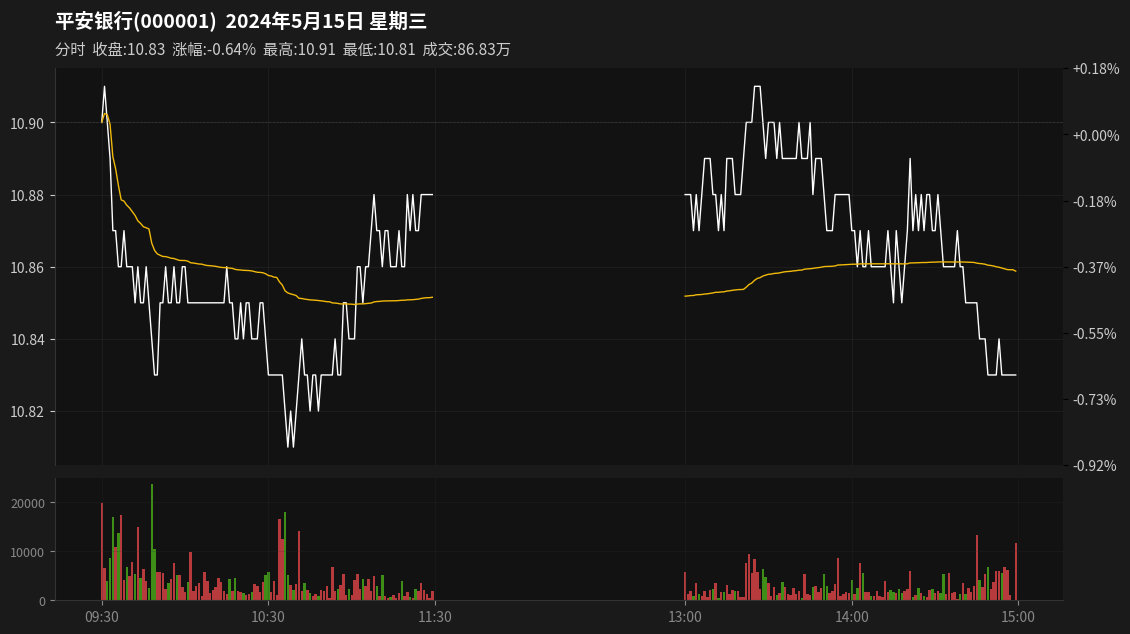
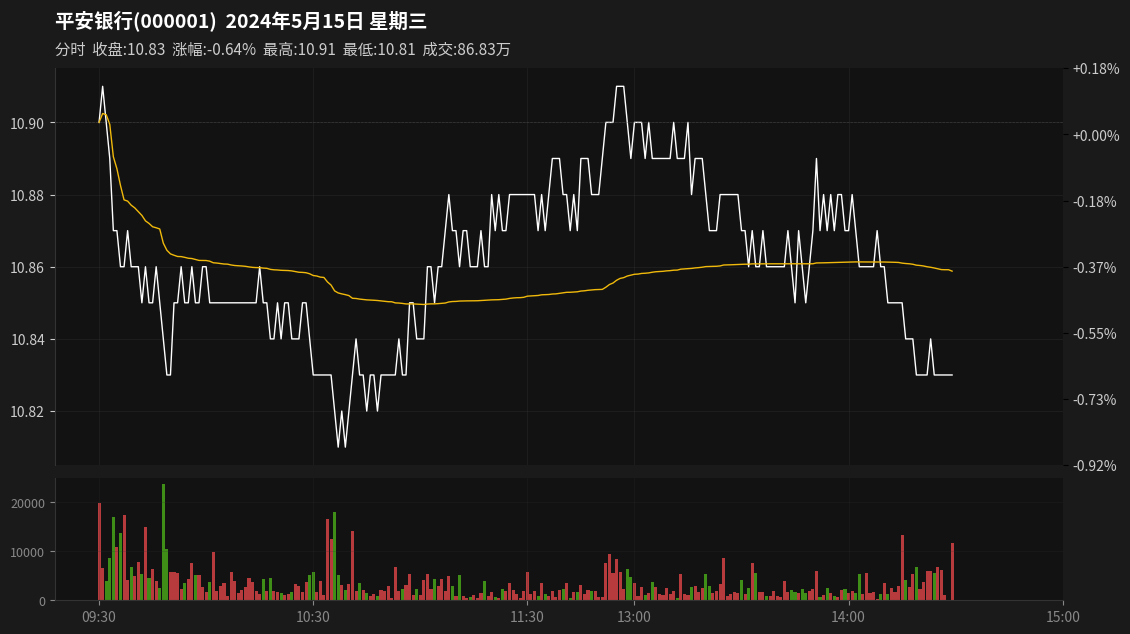
feat: compress lunch break gap in intraday charts
- Remove 1.5-hour blank space between morning and afternoon sessions
- Map afternoon times (13:00-15:00) to continuous timeline (11:30-13:30)
- Update x-axis labels to show original trading hours
- Apply to both 1-day and multi-day charts
- Matches mainstream trading software display style

diff --git a/src/fenshitu/chart_1day.py b/src/fenshitu/chart_1day.py
@@ -69,13 +69,16 @@ def generate_1day_chart(
     morning_mask = df["time"].dt.strftime("%H:%M") <= "11:30"
     afternoon_mask = df["time"].dt.strftime("%H:%M") >= "13:00"
     
-    morning_df = df[morning_mask]
-    afternoon_df = df[afternoon_mask]
+    morning_df = df[morning_mask].copy()
+    afternoon_df = df[afternoon_mask].copy()
+    
+    afternoon_df["display_time"] = afternoon_df["time"] - pd.Timedelta(hours=1, minutes=30)
+    morning_df["display_time"] = morning_df["time"]
+    
+    display_times = pd.concat([morning_df["display_time"], afternoon_df["display_time"]])
 
-    ax_price.plot(morning_df["time"], morning_df["close"], color=COLOR_PRICE_LINE, linewidth=1)
-    ax_price.plot(afternoon_df["time"], afternoon_df["close"], color=COLOR_PRICE_LINE, linewidth=1)
-    ax_price.plot(morning_df["time"], morning_df["avg_price"], color=COLOR_AVG_LINE, linewidth=1)
-    ax_price.plot(afternoon_df["time"], afternoon_df["avg_price"], color=COLOR_AVG_LINE, linewidth=1)
+    ax_price.plot(display_times, pd.concat([morning_df["close"], afternoon_df["close"]]), color=COLOR_PRICE_LINE, linewidth=1)
+    ax_price.plot(display_times, pd.concat([morning_df["avg_price"], afternoon_df["avg_price"]]), color=COLOR_AVG_LINE, linewidth=1)
     ax_price.axhline(y=prev_close, color=COLOR_ZERO_LINE, linestyle="--", linewidth=0.5, alpha=0.5)
 
     ax_price.grid(True, color=COLOR_GRID, linestyle="-", linewidth=0.5, alpha=0.5)
@@ -100,14 +103,14 @@ def generate_1day_chart(
     sec_axis.spines["bottom"].set_visible(False)
     sec_axis.spines["left"].set_visible(False)
 
-    morning_vol = morning_df[["time", "open", "close", "volume"]]
-    afternoon_vol = afternoon_df[["time", "open", "close", "volume"]]
+    morning_vol = morning_df[["display_time", "open", "close", "volume"]]
+    afternoon_vol = afternoon_df[["display_time", "open", "close", "volume"]]
     
     morning_colors = [COLOR_UP if c >= o else COLOR_DOWN for o, c in zip(morning_vol["open"], morning_vol["close"])]
     afternoon_colors = [COLOR_UP if c >= o else COLOR_DOWN for o, c in zip(afternoon_vol["open"], afternoon_vol["close"])]
     
-    ax_vol.bar(morning_vol["time"], morning_vol["volume"], color=morning_colors, alpha=0.7, width=0.0006)
-    ax_vol.bar(afternoon_vol["time"], afternoon_vol["volume"], color=afternoon_colors, alpha=0.7, width=0.0006)
+    ax_vol.bar(morning_vol["display_time"], morning_vol["volume"], color=morning_colors, alpha=0.7, width=0.0006)
+    ax_vol.bar(afternoon_vol["display_time"], afternoon_vol["volume"], color=afternoon_colors, alpha=0.7, width=0.0006)
     ax_vol.grid(True, color=COLOR_GRID, linestyle="-", linewidth=0.5, alpha=0.3)
     ax_vol.tick_params(axis="y", colors=COLOR_TEXT_DIM, labelsize=FONT_SIZE_AXIS - 1)
     ax_vol.spines["top"].set_visible(False)
@@ -123,9 +126,9 @@ def generate_1day_chart(
         datetime.datetime.strptime(f"{date} 09:30", "%Y%m%d %H:%M"),
         datetime.datetime.strptime(f"{date} 10:30", "%Y%m%d %H:%M"),
         datetime.datetime.strptime(f"{date} 11:30", "%Y%m%d %H:%M"),
-        datetime.datetime.strptime(f"{date} 13:00", "%Y%m%d %H:%M"),
-        datetime.datetime.strptime(f"{date} 14:00", "%Y%m%d %H:%M"),
-        datetime.datetime.strptime(f"{date} 15:00", "%Y%m%d %H:%M"),
+        datetime.datetime.strptime(f"{date} 11:30", "%Y%m%d %H:%M") + pd.Timedelta(minutes=30),
+        datetime.datetime.strptime(f"{date} 11:30", "%Y%m%d %H:%M") + pd.Timedelta(minutes=90),
+        datetime.datetime.strptime(f"{date} 11:30", "%Y%m%d %H:%M") + pd.Timedelta(minutes=150),
     ]
     ax_vol.set_xticks(time_ticks)
     ax_vol.set_xticklabels(["09:30", "10:30", "11:30", "13:00", "14:00", "15:00"])

diff --git a/src/fenshitu/chart_7day.py b/src/fenshitu/chart_7day.py
@@ -74,15 +74,18 @@ def generate_7day_chart(
         morning_mask = df["time"].dt.strftime("%H:%M") <= "11:30"
         afternoon_mask = df["time"].dt.strftime("%H:%M") >= "13:00"
         
-        morning_df = df[morning_mask]
-        afternoon_df = df[afternoon_mask]
+        morning_df = df[morning_mask].copy()
+        afternoon_df = df[afternoon_mask].copy()
+        
+        afternoon_df["display_time"] = afternoon_df["time"] - pd.Timedelta(hours=1, minutes=30)
+        morning_df["display_time"] = morning_df["time"]
+        
+        display_times = pd.concat([morning_df["display_time"], afternoon_df["display_time"]])
         
         prev_close = df["open"].iloc[0]
 
-        ax_price.plot(morning_df["time"], morning_df["close"], color=COLOR_PRICE_LINE, linewidth=0.8)
-        ax_price.plot(afternoon_df["time"], afternoon_df["close"], color=COLOR_PRICE_LINE, linewidth=0.8)
-        ax_price.plot(morning_df["time"], morning_df["avg_price"], color=COLOR_AVG_LINE, linewidth=0.8)
-        ax_price.plot(afternoon_df["time"], afternoon_df["avg_price"], color=COLOR_AVG_LINE, linewidth=0.8)
+        ax_price.plot(display_times, pd.concat([morning_df["close"], afternoon_df["close"]]), color=COLOR_PRICE_LINE, linewidth=0.8)
+        ax_price.plot(display_times, pd.concat([morning_df["avg_price"], afternoon_df["avg_price"]]), color=COLOR_AVG_LINE, linewidth=0.8)
         ax_price.axhline(y=prev_close, color=COLOR_ZERO_LINE, linestyle="--", linewidth=0.3, alpha=0.4)
 
         ax_price.set_ylim(global_price_min - price_padding, global_price_max + price_padding)
@@ -112,14 +115,14 @@ def generate_7day_chart(
         ax_price.text(0.5, 0.95, f"{date_obj.month}/{date_obj.day}", transform=ax_price.transAxes,
                       ha="center", color=COLOR_TEXT_DIM, fontsize=FONT_SIZE_TIME - 1)
 
-        morning_vol = morning_df[["time", "open", "close", "volume"]]
-        afternoon_vol = afternoon_df[["time", "open", "close", "volume"]]
+        morning_vol = morning_df[["display_time", "open", "close", "volume"]]
+        afternoon_vol = afternoon_df[["display_time", "open", "close", "volume"]]
         
         morning_colors = [COLOR_UP if c >= o else COLOR_DOWN for o, c in zip(morning_vol["open"], morning_vol["close"])]
         afternoon_colors = [COLOR_UP if c >= o else COLOR_DOWN for o, c in zip(afternoon_vol["open"], afternoon_vol["close"])]
         
-        ax_vol.bar(morning_vol["time"], morning_vol["volume"], color=morning_colors, alpha=0.6, width=0.0006)
-        ax_vol.bar(afternoon_vol["time"], afternoon_vol["volume"], color=afternoon_colors, alpha=0.6, width=0.0006)
+        ax_vol.bar(morning_vol["display_time"], morning_vol["volume"], color=morning_colors, alpha=0.6, width=0.0006)
+        ax_vol.bar(afternoon_vol["display_time"], afternoon_vol["volume"], color=afternoon_colors, alpha=0.6, width=0.0006)
         ax_vol.grid(True, color=COLOR_GRID, linestyle="-", linewidth=0.3, alpha=0.3)
         ax_vol.tick_params(axis="y", colors=COLOR_TEXT_DIM, labelsize=FONT_SIZE_AXIS - 3)
         ax_vol.tick_params(axis="x", colors=COLOR_TEXT_DIM, labelsize=FONT_SIZE_TIME - 1, rotation=0)
@@ -131,8 +134,8 @@ def generate_7day_chart(
         time_ticks = [
             datetime.datetime.strptime(f"{date_str} 09:30", "%Y%m%d %H:%M"),
             datetime.datetime.strptime(f"{date_str} 11:30", "%Y%m%d %H:%M"),
-            datetime.datetime.strptime(f"{date_str} 13:00", "%Y%m%d %H:%M"),
-            datetime.datetime.strptime(f"{date_str} 15:00", "%Y%m%d %H:%M"),
+            datetime.datetime.strptime(f"{date_str} 11:30", "%Y%m%d %H:%M") + pd.Timedelta(minutes=30),
+            datetime.datetime.strptime(f"{date_str} 11:30", "%Y%m%d %H:%M") + pd.Timedelta(minutes=150),
         ]
         ax_vol.set_xticks(time_ticks)
         ax_vol.set_xticklabels(["09:30", "11:30", "13:00", "15:00"], fontsize=FONT_SIZE_TIME - 2)